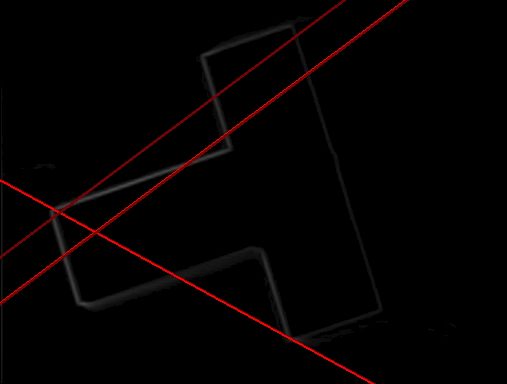
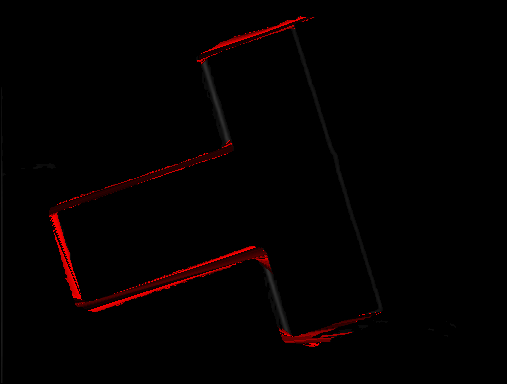
more work on line detection algorithm

diff --git a/lib/lines.js b/lib/lines.js
@@ -9,7 +9,7 @@ module.exports = function(image) {
       if(image.data[idx] >= image.threshold) {
         //console.log('pixel', idx, x, y)
         
-        for(var radians = 0; radians <= Math.PI; radians += 0.05) {
+        for(var radians = 0; radians <= Math.PI; radians += 0.01) {
           var a = Math.tan(radians);
           var count = 0;
           var ranges = [];
@@ -27,12 +27,13 @@ module.exports = function(image) {
             if(image.data[idx] >= image.threshold) {
               count++;
               
-              if(!ranges[ranges.length - 1] || ranges[ranges.length - 1].end == evalX - 1) {
+              if(!ranges[ranges.length - 1] || ranges[ranges.length - 1].end != evalX - 1) {
                 ranges.push({
-                  start: evalX
+                  start: evalX,
+                  end: evalX
                 });
               }
-              else {
+              else if(ranges[ranges.length - 1].end == evalX - 1) {
                 ranges[ranges.length - 1].end = evalX;
               }
             }
@@ -84,10 +85,20 @@ module.exports = function(image) {
     return b.largest_range.size - a.largest_range.size;
   });
   
-  equations = equations.slice(0, 10);
+  //equations = equations.slice(0, 10);
+  
+  equations = equations.filter(function(equation) {
+    return equation.largest_range.size > 20;
+  });
+  
+  equations = equations.reverse();
+  
+  console.log(equations.length)
   
   for(var equation of equations) {
+    //console.log(equation)
     for(var x = 0; x < image.width; x++) {
+      if(x < equation.largest_range.start || x >= equation.largest_range.end) continue;
       var y = Math.floor(equation.a * x) + equation.b;
       if(y < 0 || y >= image.height) continue;
       var idx = (y * image.width) + x;

diff --git a/lib/overlay.js b/lib/overlay.js
@@ -4,7 +4,7 @@ module.exports = function(data, overlay, r, g, b) {
     
     var idx = i * 4;
     
-    data[idx] =     (overlay[i]     / 255) * r;
+    data[idx]     = (overlay[i]     / 255) * r;
     data[idx + 1] = (overlay[i + 1] / 255) * g;
     data[idx + 2] = (overlay[i + 2] / 255) * b;
     data[idx + 3] = 255;

diff --git a/index.js b/index.js
@@ -45,7 +45,7 @@ var lines_data = filters.lines(
     width: png.width,
     height: png.height,
     data: sobel_data,
-    threshold: 50
+    threshold: 1
   }
 );
 console.timeEnd('lines');
